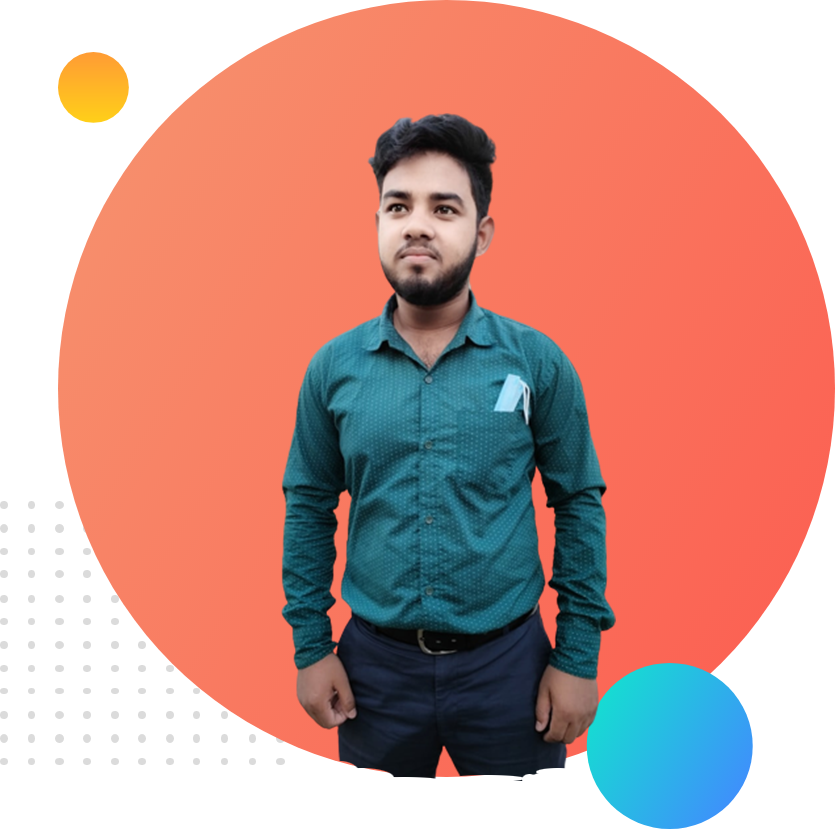
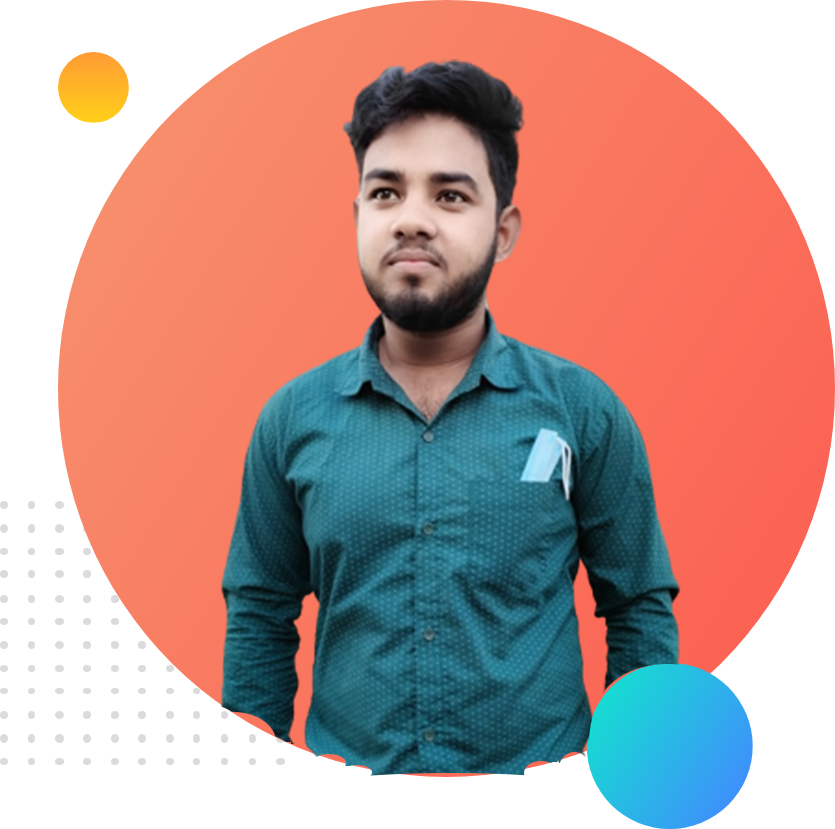
header section done

Changed region(s): [[0.2491, 0.0603, 0.8407, 0.9349]]

diff --git a/css/style.css b/css/style.css
@@ -1,4 +1,40 @@
-@import url('https://fonts.googleapis.com/css2?family=Poppins:wght@300;400;600;700&display=swap');
-h1{
-    background:#fff;
+body{
+    font-family: 'Poppins', sans-serif;
+    margin:0;
+    padding:0; 
+}
+.container{ 
+    display: flex;
+    justify-content: center;
+    align-items: center;
+    background-image: url('../image/top-banner.png');
+    background-repeat: no-repeat;
+}
+.left{
+    margin-left: 20px;
+    width: 50%;
+}
+.left h1{
+    font-size: 65px;;
+}
+.left h4{
+    font-size: 20px;
+}
+.left span{
+    color:orange;
+}
+.left a{
+    text-decoration: none;
+    border: 1px solid orange;
+    border-radius: 5px;
+    background-image: linear-gradient(orange,tomato );
+    color: #fff;
+    padding: 10px 40px;
+}
+.right{
+    width: 50%;
+    margin-left: 20px;
+}
+.right img{
+    width: 100%;
 }

diff --git a/index.html b/index.html
@@ -14,6 +14,17 @@
     <link rel="stylesheet" href="css/style.css" />
   </head>
   <body>
-    <h1>welcome to my Portfolio</h1>
+    <section class="container">
+        <div class="left">
+            <h1>Welcome to my</h1>
+            <h1>new <span>Portfolio!!!</span></h1>
+            <h4>Build Climber and Train Stopper</h4>
+            <p>Lorem ipsum dolor sit amet consectetur adipisicing elit. Molestiae quisquam  ipsum, dolor sit amet consectetur adipisicing elit. Non repellendus pariatur repellat rerum temporibus nam quasi distinctio ipsum praesentium neque.</p>
+            <a href="#">Hire Me</a>
+        </div>
+        <div class="right">
+            <img src="image/my-bg.png" alt="my-bg">
+        </div>
+    </section>
   </body>
 </html>
